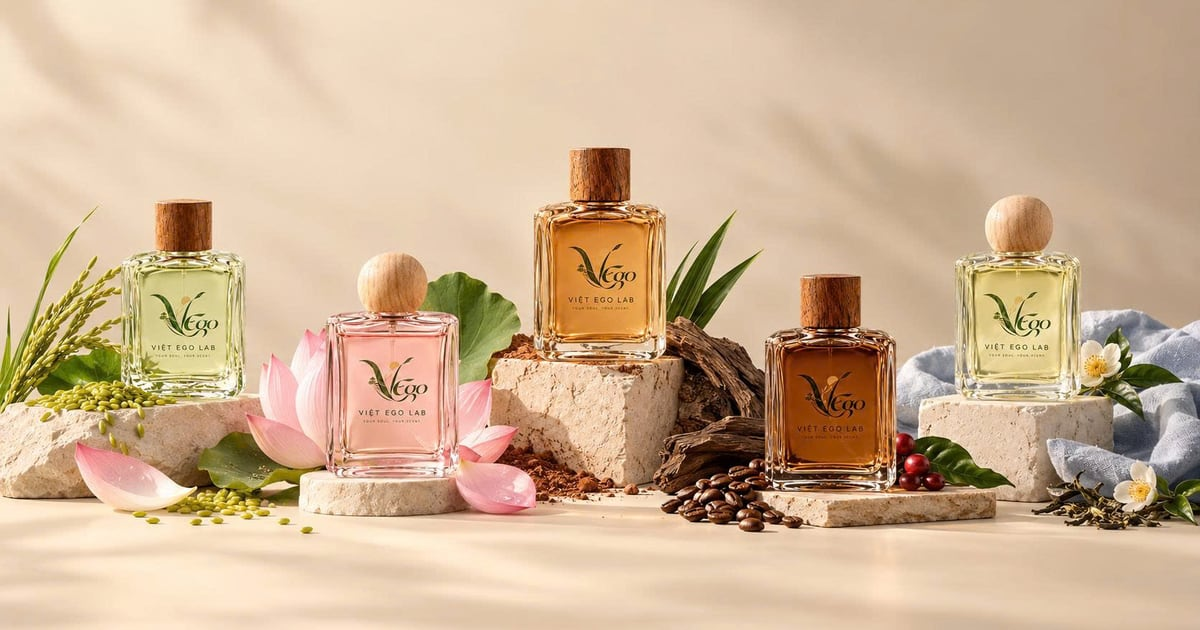
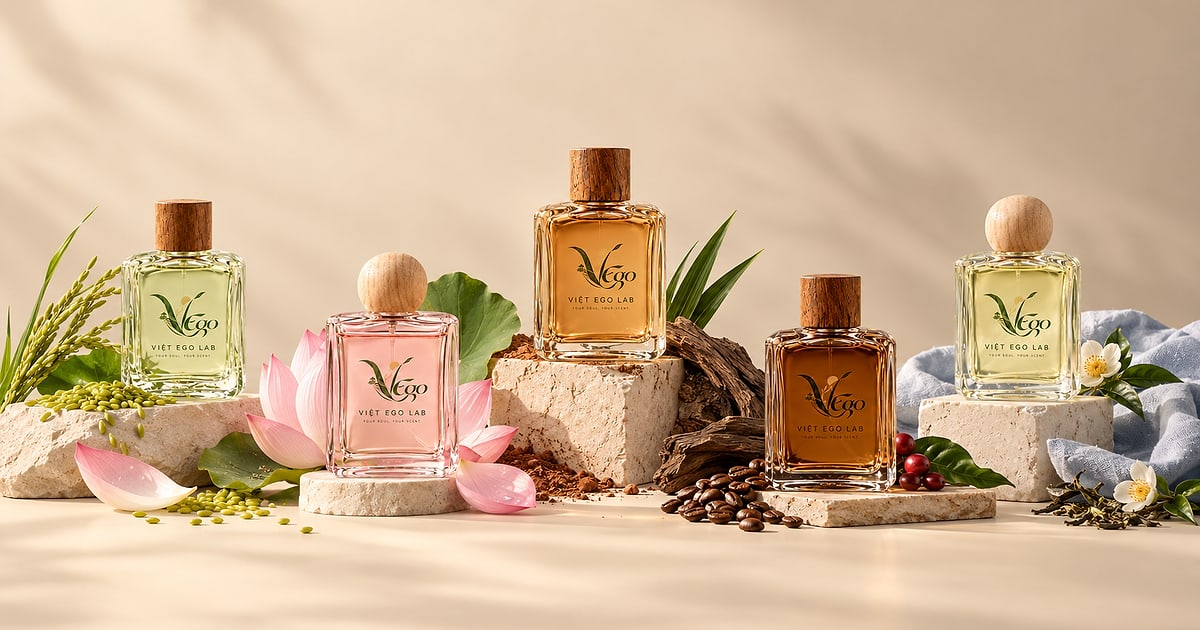
feat: six-photo hero from team originals, with Sen Đồng Tháp
- Slides: collection, Cốm, Long Trà, Sen, Phù Sa, Cà Phê (team order), each with its sampled wall-colour band
- Web versions are 2400px WebP (Lanczos upscale + light sharpen) built from the PNG originals, which stay local in images/hero/originals (git- and deploy-ignored)
- Share thumbnail rebuilt from the sharper collection original

diff --git a/index.html b/index.html
@@ -30,25 +30,29 @@
          (sampled left / centre / right), so no bottle is covered and the seam is invisible. -->
     <section class="hero hero--collection" id="hero">
       <div class="hero__bands" aria-hidden="true">
-        <span class="is-active" style="--band: linear-gradient(90deg, #e5cbae 0%, #ead3b7 48%, #bba089 100%)"></span>
-        <span style="--band: linear-gradient(90deg, #e6c5a7 0%, #e3c2a2 48%, #ac917a 100%)"></span>
-        <span style="--band: linear-gradient(90deg, #ddc0a2 0%, #e5ccaf 48%, #b59b82 100%)"></span>
-        <span style="--band: linear-gradient(90deg, #e8cbad 0%, #ddbea1 48%, #bea084 100%)"></span>
-        <span style="--band: linear-gradient(90deg, #debea1 0%, #e3c6a9 48%, #ae9175 100%)"></span>
+        <span class="is-active" style="--band: linear-gradient(90deg, #e4cbb0 0%, #ead2b8 48%, #baa289 100%)"></span>
+        <span style="--band: linear-gradient(90deg, #e5c5a5 0%, #e1c2a2 48%, #ad9279 100%)"></span>
+        <span style="--band: linear-gradient(90deg, #ddc0a2 0%, #e6ccb0 48%, #b69c83 100%)"></span>
+        <span style="--band: linear-gradient(90deg, #e0c2a5 0%, #e8cdb2 48%, #b79a81 100%)"></span>
+        <span style="--band: linear-gradient(90deg, #e8cbad 0%, #ddbea0 48%, #bea084 100%)"></span>
+        <span style="--band: linear-gradient(90deg, #debea0 0%, #e4c6a9 48%, #ae9176 100%)"></span>
       </div>
+      <!-- 2400px WebP built from the originals in images/hero/originals/ (Lanczos upscale + light sharpen). -->
       <div class="hero__bg" role="region" aria-roledescription="carousel" aria-label="Bộ sưu tập Việt Ego Lab">
-        <img class="is-active" src="images/hero/collection.jpg" width="1672" height="941" fetchpriority="high"
+        <img class="is-active" src="images/hero/collection.webp" width="2400" height="1351" fetchpriority="high"
              alt="Năm chai nước hoa Việt Ego Lab: Cốm xanh Hà Nội, Sen Đồng Tháp, Phù Sa Cửu Long, Cà Phê Tây Nguyên, Long Trà Đà Lạt" />
-        <img src="images/hero/com-xanh-ha-noi.jpg" width="1672" height="941" alt="Cốm xanh Hà Nội bên bông lúa non, cốm xanh và cánh sen" />
-        <img src="images/hero/long-tra-da-lat.jpg" width="1672" height="941" alt="Long Trà Đà Lạt bên lá trà, trà khô và hoa trà" />
-        <img src="images/hero/phu-sa-cuu-long.jpg" width="1672" height="941" alt="Phù Sa Cửu Long bên lá dứa, đất phù sa và gỗ lũa" />
-        <img src="images/hero/ca-phe-tay-nguyen.jpg" width="1672" height="941" alt="Cà Phê Tây Nguyên bên hạt cà phê, quả cà phê chín và gỗ" />
+        <img src="images/hero/com-xanh-ha-noi.webp" width="2400" height="1351" alt="Cốm xanh Hà Nội bên bông lúa non, cốm xanh và cánh sen" />
+        <img src="images/hero/long-tra-da-lat.webp" width="2400" height="1351" alt="Long Trà Đà Lạt bên lá trà, trà khô và hoa trà" />
+        <img src="images/hero/sen-dong-thap.webp" width="2400" height="1351" alt="Sen Đồng Tháp bên hoa sen, lá sen và quýt hồng" />
+        <img src="images/hero/phu-sa-cuu-long.webp" width="2400" height="1351" alt="Phù Sa Cửu Long bên lá dứa, đất phù sa và gỗ lũa" />
+        <img src="images/hero/ca-phe-tay-nguyen.webp" width="2400" height="1351" alt="Cà Phê Tây Nguyên bên hạt cà phê, quả cà phê chín và gỗ" />
         <div class="hero__dots">
           <button class="slider__dot" data-hero="0" aria-label="Ảnh 1: Bộ sưu tập" aria-current="true"></button>
           <button class="slider__dot" data-hero="1" aria-label="Ảnh 2: Cốm xanh Hà Nội"></button>
           <button class="slider__dot" data-hero="2" aria-label="Ảnh 3: Long Trà Đà Lạt"></button>
-          <button class="slider__dot" data-hero="3" aria-label="Ảnh 4: Phù Sa Cửu Long"></button>
-          <button class="slider__dot" data-hero="4" aria-label="Ảnh 5: Cà Phê Tây Nguyên"></button>
+          <button class="slider__dot" data-hero="3" aria-label="Ảnh 4: Sen Đồng Tháp"></button>
+          <button class="slider__dot" data-hero="4" aria-label="Ảnh 5: Phù Sa Cửu Long"></button>
+          <button class="slider__dot" data-hero="5" aria-label="Ảnh 6: Cà Phê Tây Nguyên"></button>
         </div>
       </div>
       <div class="hero__content">
